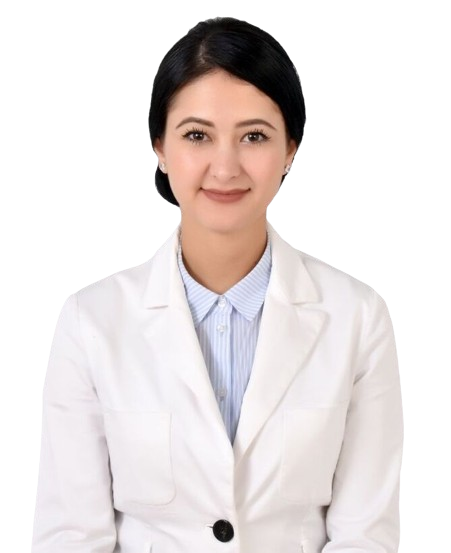
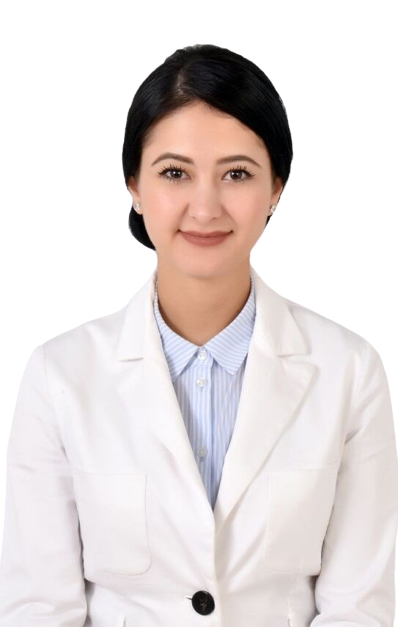
add two teachers

diff --git a/components/Teachers.tsx b/components/Teachers.tsx
@@ -62,6 +62,7 @@ const Teacher: React.FC<TeacherProps> = ({ translation }) => {
                 </div>
                 <div className="flex gap-3 max-sm:gap-1 items-center">
                     <button
+                        title="prev"
                         onClick={prevHandler}
                         className="w-14 h-14 max-xl:w-12 max-xl:h-12 max-md:w-7 max-md:h-7 flex items-center justify-center bg-blue rounded-full"
                     >
@@ -92,6 +93,7 @@ const Teacher: React.FC<TeacherProps> = ({ translation }) => {
                         </svg>
                     </button>
                     <button
+                        title="next"
                         onClick={nextHandler}
                         className="w-14 h-14 max-xl:w-12 max-xl:h-12 max-md:w-7 max-md:h-7 flex items-center justify-center bg-blue rounded-full"
                     >
@@ -156,7 +158,7 @@ const Teacher: React.FC<TeacherProps> = ({ translation }) => {
                                 <div className="relative rounded-[43px] max-lg:rounded-[30px] max-md:rounded-[19.569px] hover:-translate-y-1 hover:shadow-[0_7px_20px_gray] ease-in duration-150 bg-orange min-h-[300px] max-sm:min-h-[220px]">
                                     <div className="h-[707px] max-3xl:h-[550px] max-xl:h-full -translate-y-12 max-xl:-translate-y-10 max-sm:-translate-y-8">
                                         <Image
-                                            className="bg-cover"
+                                            className={`bg-cover ${item.id == 10 ? 'translate-y-[10%] max-sm:translate-y-[15%] max-sm:w-[97%]': null}`}
                                             src={`/images/teachers/${item.img}.webp`}
                                             width={1000}
                                             height={1000}
@@ -202,45 +204,20 @@ const Teacher: React.FC<TeacherProps> = ({ translation }) => {
                         );
                     }
                 )}
-                {/* <SwiperSlide className="">
-                    <div className="relative w-full rounded-[43px] max-lg:rounded-[30px] max-md:rounded-[19.569px] hover:-translate-y-1 hover:shadow-[0_7px_20px_gray] ease-in duration-150 bg-orange min-h-[300px] max-sm:min-h-[250px]">
-                        <div className="w-full h-[707px] max-3xl:h-[550px] max-xl:h-[460px]  max-lg:h-[515px] max-md:h-[420px] max-sm:h-auto translate-y-10 max-xl:translate-y-5 max-sm:translate-y-8">
-                            <Image
-                                className="bg-cover w-full"
-                                src={`/images/teachers/teacher-10.webp`}
-                                width={1000}
-                                height={1000}
-                                alt="teacher"
-                            />
-                        </div>
-
-                        <div className="w-full absolute -bottom-3 left-0 py-7 max-2xl:py-3 max-md:py-2 px-9 max-3xl:px-5 max-md:px-4 max-sm:px-2 rounded-[20px] max-md:rounded-[9.102px] bg-blue">
-                            <div className="">
-                                <p className="text-[36px] max-3xl:text-[36px] max-2xl:text-[28px] max-lg:text-[32px] max-md:text-[28px] max-sm:text-[16px] leading-[40.5px] max-lg:leading-[30px]  max-sm:leading-[18.431px] font-bold text-white">
-                                    {translation?.name}
-                                </p>
-                                <p className="max-w-[200px] text-[23px] max-md:text-[14px] max-sm:text-[10px] leading-[20.5px] max-md:leading-[9.329px] mt-2 max-2xl:mt-0 text-white">
-                                    {translation?.job_title}
-                                </p>
-                            </div>
-                            <p className="max-w-[200px] text-[22px] max-md:text-[14px] max-sm:text-[10px] leading-[20.5px] max-md:leading-[9.329px] mt-2 max-2xl:mt-0 text-white"></p>
-                        </div>
-                    </div>
-                </SwiperSlide> */}
             </Swiper>
 
             {modaHendel ? (
                 <div className="fixed top-0 left-0 bg-[#0000008e] backdrop-blur-sm w-full h-full z-[60] flex items-center justify-center">
-                    <div className="relative bg-[#EC8D18] max-sm:mt-7 max-sm:w-[90%] flex max-lg:flex-col gap-5 max-sm:gap-0 h-[80vh] max-xl:h-[70vh] max-lg:h-[90vh] max-lg:w-[650px] max-md:w-[70%] w-[90vw] rounded-[20px] max-md:rounded-[9.102px] overflow-auto pr-20 max-xl:pr-12 max-lg:pr-0">
+                    <div className="relative bg-[#EC8D18] max-sm:mt-7 max-sm:w-[90%] flex max-lg:flex-col gap-5 max-lg:gap-0 h-[80vh] max-xl:h-[70vh] max-lg:h-[90vh] max-lg:w-[650px] max-md:w-[70%] w-[90vw] rounded-[20px] max-md:rounded-[9.102px] overflow-auto pr-20 max-xl:pr-12 max-lg:pr-0">
                         <div className="relative w-[1100px] max-lg:w-full h-full max-sm:h-fit">
                             <Image
                                 src={`/images/teachers/${modalInfo?.img}.webp`}
                                 alt=""
                                 width={600}
                                 height={600}
-                                className="w-full max-lg:w-[400px] translate-y-10 max-3xl:-translate-y-10 max-2xl:translate-y-2 max-[1350px]:translate-y-6 max-xl:-translate-y-5 max-lg:-translate-y-24 max-md:-translate-y-14 max-sm:-translate-y-16 max-lg:m-auto"
+                                className={`w-full max-lg:w-[400px] max-lg:m-auto ${modalInfo?.id == 10 ? 'max-[1470px]:translate-y-10 max-xl:translate-y-0' :'translate-y-10 max-3xl:-translate-y-10 max-2xl:translate-y-2 max-[1350px]:translate-y-6 max-xl:-translate-y-5 max-lg:-translate-y-24 max-md:-translate-y-14 max-sm:-translate-y-16'}`}
                             />
-                            <div className="w-full absolute bottom-0 left-0 p-5  rounded-[20px] max-md:rounded-[9.102px]  max-sm:rounded-b-none bg-blue">
+                            <div className="w-full absolute bottom-0 left-0 p-5  rounded-[20px] max-lg:rounded-b-none bg-blue">
                                 <p className="text-[36px] max-lg:mb-5 max-3xl:text-[36px] max-2xl:text-[28px] max-lg:text-[32px] max-md:text-[28px] max-sm:text-[24px] leading-[40.5px] max-lg:leading-[30px]  max-sm:leading-[18.431px] font-bold text-white">
                                     {modalInfo?.name}
                                 </p>
@@ -250,7 +227,7 @@ const Teacher: React.FC<TeacherProps> = ({ translation }) => {
                             </div>
                         </div>
 
-                        <div className="relative w-full p-5 pl-10  max-3xl:pl-5 max-lg:bg-blue max-lg:rounded-[20px] max-md:rounded-[9.102px] max-sm:rounded-none">
+                        <div className="relative w-full p-5 pl-10  max-3xl:pl-5 max-lg:bg-blue max-lg:rounded-none">
                             <p className="text-white text-5xl max-3xl:text-4xl max-2xl:text-3xl max-xl:text-xl max-sm:text-base mb-4 max-3xl:mb-2 font-semibold">
                                 {modalInfo?.name}
                             </p>
@@ -273,7 +250,7 @@ const Teacher: React.FC<TeacherProps> = ({ translation }) => {
                                 {modalInfo?.modal?.info1}
                             </p>
                         </div>
-                        <div className="relative w-full py-5 max-lg:bg-blue max-lg:p-5 max-lg:mb-5 max-sm:mb-0 max-lg:rounded-[20px] max-md:rounded-[9.102px]  max-sm:rounded-none">
+                        <div className="relative w-full py-5 max-lg:bg-blue max-lg:p-5 max-lg:rounded-none">
                             <p className="text-[white] text-4xl  max-3xl:text-3xl max-2xl:text-2xl max-xl:text-xl max-sm:text-lg mb-4 max-xl:mb-2 font-semibold">
                                 {modalInfo?.modal?.title2}
                             </p>

diff --git a/languages/ru/ru.tsx b/languages/ru/ru.tsx
@@ -256,7 +256,7 @@ const ru = {
                 job_title: "Преподаватель английского языка",
                 local: "",
                 modal: {
-                    text: "Меня зовут Пулатова Мохинур.",
+                    text: "Меня зовут Пулатова Мохинур",
                     text2: "",
                     text3: "Можете обращаться -Мисс Мохинур.",
                     title:"Образование, степень учености",
@@ -289,13 +289,6 @@ const ru = {
                 name: "Ms. Hilola",
                 job_title: "Преподаватель немецкого языка",
                 local: "",
-            },
-            {
-                id: 10,
-                img: "teacher-10",
-                name: "Ms. Hilola",
-                job_title: "Преподаватель немецкого языка",
-                local: "",
                 modal: {
                     text: "To'liq ismim Hilola Rasulova",
                     text2: "",
@@ -307,6 +300,40 @@ const ru = {
                     info2:"Germaniyaning O'zbekistondagi elchixonasi hamda  Gyote instituti tomonidan o'tkazilgan tanlovlarda, xalqaro konferensiyalarda faol ishtirok etgan."
                 }
             },
+            {
+                id: 10,
+                img: "teacher-10",
+                name: "Ms. Zuhra",
+                job_title: "Преподаватель английского языка",
+                local: "",
+                modal: {
+                    text: "Меня зовут Нуритдинова Зухра",
+                    text2: "",
+                    text3: "Можете обращаться Мисс Зухра",
+                    title:"Образование, степень учености",
+                    info:"Linguistic School 17, Tashkent 2nd Lyceum under World Languages University Tashkent MDIST Australian SCU",
+                    info1:"My hobbies: Walking, swimming, reading and watching YouTube",
+                    title2:"Honors and Achievements",
+                    info2:"Yakkasaroy District Olympiad, 2009-1st place Tashkent City Olympiad,2010-1st place Uzbekistan Republic Olympiad,2010-essay 1-st place Train the Trainer Passport -Dubai,2018 Dubai Way Certificate of Completion-Dubai College of Tourism, 2018 TEFL (Teaching English as a Foreign Language) certificate, 2021"
+                }
+            },
+            {
+                id: 11,
+                img: "teacher-11",
+                name: "Ms. Muhabbat",
+                job_title: "Преподаватель английского языка",
+                local: "",
+                modal: {
+                    text: "Меня зовут Султонова Мухаббат",
+                    text2: "",
+                    text3: "Можете обращаться Мисс Мухаббат",
+                    title:"Образование, степень учености",
+                    info:"Bachelor of English language faculty,2023 Group leader for 4 years in English faculty II Owner the medal of nomination `For educational` service Member of guide interpretaters in SamSIFL SamSU's 1-Academic Lyceum High School Diploma, Class of 2015-2018 Group leader for 3 years in English Languages class Samarkand Middle Educational School number 33 and 22 Training in Arm wrestling for 2 years in school gym Gained several nominations Certificate for excellent study at School CEFR B1 2018-B2 2019 MULTILEVEL SCORE B2 2023",
+                    info1:"",
+                    title2:"Work experience",
+                    info2:"Teaching children English as a second language Be Forward Study Centre (2018-2019) Teacher of English from elementary levels up to intermediate More than 10 graduated students Niners Academy English School (2019-2021) Teacher of English language from A0 up to B2 Leader of Speaking Club in the Centre Assistant of IELTS teacher Writing works analyst"
+                }
+            }
         ],
     },
     map: {

diff --git a/languages/uzb/uz.tsx b/languages/uzb/uz.tsx
@@ -298,6 +298,40 @@ const uz = {
                     title2:"",
                     info2:"Germaniyaning O'zbekistondagi elchixonasi hamda  Gyote instituti tomonidan o'tkazilgan tanlovlarda, xalqaro konferensiyalarda faol ishtirok etgan."
                 }
+            },
+            {
+                id: 10,
+                img: "teacher-10",
+                name: "Ms. Zuhra",
+                job_title: "Ingliz tili o'qituvchisi",
+                local: "",
+                modal: {
+                    text: "To'liq ismim Nuritdinova Zuhra",
+                    text2: "",
+                    text3: "Menga Ms. Zuhra deb murojat etishiz mumkin",
+                    title:"MY ACADEMIC BACKGROUND",
+                    info:"Linguistic School 17, Tashkent 2nd Lyceum under World Languages University Tashkent MDIST Australian SCU",
+                    info1:"My hobbies: Walking, swimming, reading and watching YouTube",
+                    title2:"Honors and Achievements",
+                    info2:"Yakkasaroy District Olympiad, 2009-1st place Tashkent City Olympiad,2010-1st place Uzbekistan Republic Olympiad,2010-essay 1-st place Train the Trainer Passport -Dubai,2018 Dubai Way Certificate of Completion-Dubai College of Tourism, 2018 TEFL (Teaching English as a Foreign Language) certificate, 2021"
+                }
+            },
+            {
+                id: 11,
+                img: "teacher-11",
+                name: "Ms. Muhabbat",
+                job_title: "Ingliz tili o'qituvchisi",
+                local: "",
+                modal: {
+                    text: "To'liq ismim Sultonova Muhabbat",
+                    text2: "",
+                    text3: "Menga Ms. Muhabbat deb murojat etishiz mumkin",
+                    title:"MY ACADEMIC BACKGROUND",
+                    info:"Bachelor of English language faculty,2023 Group leader for 4 years in English faculty II Owner the medal of nomination `For educational` service Member of guide interpretaters in SamSIFL SamSU's 1-Academic Lyceum High School Diploma, Class of 2015-2018 Group leader for 3 years in English Languages class Samarkand Middle Educational School number 33 and 22 Training in Arm wrestling for 2 years in school gym Gained several nominations Certificate for excellent study at School CEFR B1 2018-B2 2019 MULTILEVEL SCORE B2 2023",
+                    info1:"",
+                    title2:"Work experience",
+                    info2:"Teaching children English as a second language Be Forward Study Centre (2018-2019) Teacher of English from elementary levels up to intermediate More than 10 graduated students Niners Academy English School (2019-2021) Teacher of English language from A0 up to B2 Leader of Speaking Club in the Centre Assistant of IELTS teacher Writing works analyst"
+                }
             }
         ]
     },

diff --git a/languages/eng/eng.ts b/languages/eng/eng.ts
@@ -297,6 +297,40 @@ const eng = {
                     title2:"",
                     info2:"Germaniyaning O'zbekistondagi elchixonasi hamda  Gyote instituti tomonidan o'tkazilgan tanlovlarda, xalqaro konferensiyalarda faol ishtirok etgan."
                 }
+            },
+            {
+                id: 10,
+                img: "teacher-10",
+                name: "Ms. Zuhra",
+                job_title: "English Language Teacher",
+                local: "",
+                modal: {
+                    text: "My full name is Nuritdinova Zuhra",
+                    text2: "",
+                    text3: "You can call me Ms. Zuhra",
+                    title:"MY ACADEMIC BACKGROUND",
+                    info:"Linguistic School 17, Tashkent 2nd Lyceum under World Languages University Tashkent MDIST Australian SCU",
+                    info1:"My hobbies: Walking, swimming, reading and watching YouTube",
+                    title2:"Honors and Achievements",
+                    info2:"Yakkasaroy District Olympiad, 2009-1st place Tashkent City Olympiad,2010-1st place Uzbekistan Republic Olympiad,2010-essay 1-st place Train the Trainer Passport -Dubai,2018 Dubai Way Certificate of Completion-Dubai College of Tourism, 2018 TEFL (Teaching English as a Foreign Language) certificate, 2021"
+                }
+            },
+            {
+                id: 11,
+                img: "teacher-11",
+                name: "Ms. Muhabbat",
+                job_title: "English Language Teacher",
+                local: "",
+                modal: {
+                    text: "My full name is Sultonova Muhabbat",
+                    text2: "",
+                    text3: "You can call me Ms. Muhabbat",
+                    title:"MY ACADEMIC BACKGROUND",
+                    info:"Bachelor of English language faculty,2023 Group leader for 4 years in English faculty II Owner the medal of nomination `For educational` service Member of guide interpretaters in SamSIFL SamSU's 1-Academic Lyceum High School Diploma, Class of 2015-2018 Group leader for 3 years in English Languages class Samarkand Middle Educational School number 33 and 22 Training in Arm wrestling for 2 years in school gym Gained several nominations Certificate for excellent study at School CEFR B1 2018-B2 2019 MULTILEVEL SCORE B2 2023",
+                    info1:"",
+                    title2:"Work experience",
+                    info2:"Teaching children English as a second language Be Forward Study Centre (2018-2019) Teacher of English from elementary levels up to intermediate More than 10 graduated students Niners Academy English School (2019-2021) Teacher of English language from A0 up to B2 Leader of Speaking Club in the Centre Assistant of IELTS teacher Writing works analyst"
+                }
             }
         ]
     },
